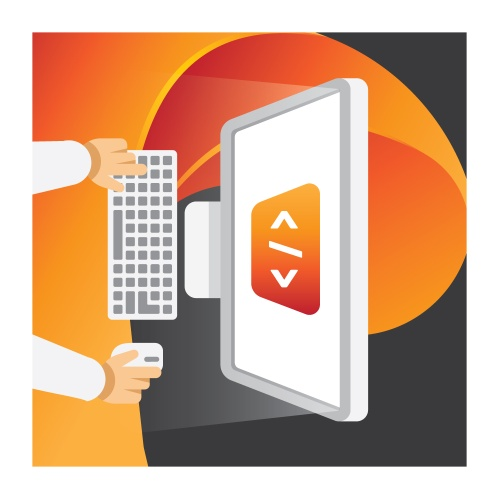
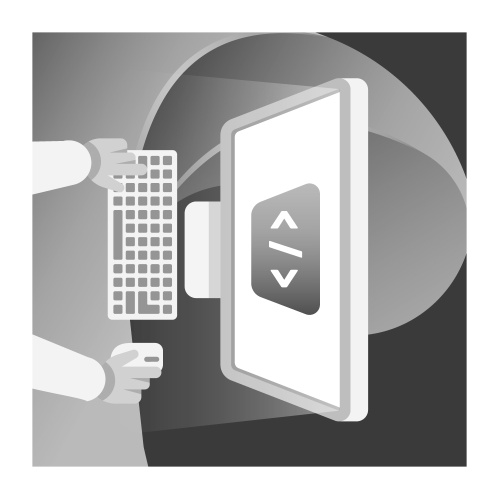
Finishing this tutorial

diff --git a/vid_corners.py b/vid_corners.py
@@ -1,0 +1,22 @@
+import cv2
+import numpy as np
+
+vid = cv2.VideoCapture(0)
+
+while True:
+    ret, frame = vid.read()
+    gray = cv2.cvtColor(frame, cv2.COLOR_BGR2GRAY)
+    corners = cv2.goodFeaturesToTrack(gray, 100, 0.01, 10)
+    corners = np.int0(corners)
+
+    for corner in corners:
+        x, y = corner.ravel()
+        cv2.circle(frame, (x, y), 5, (255, 0, 0), -1)
+
+    cv2.imshow("frame", frame)
+
+    if cv2.waitKey(1) == ord("q"):
+        break
+
+vid.release()
+cv2.destroyAllWindows()

diff --git a/tutorial1.py b/tutorial1.py
@@ -1,6 +1,6 @@
 import cv2
 
-img = cv2.imread("assets/logo.jpg", 1)
+img = cv2.imread("assets/logo.jpg", 0)
 img = cv2.resize(img, (0, 0), fx=0.5, fy=0.5)
 img = cv2.rotate(img, cv2.ROTATE_90_CLOCKWISE)
 

diff --git a/README.md b/README.md
@@ -1,11 +1,142 @@
 # OpenCV
 
-## Showing images
+## imread - imshow - imwrite
+
+Reading and writing image:
+
+```python
+img = cv2.imread(path, flags)
+cv2.imwrite(path, img, params)
+```
+
+Flag determine if image should be loaded as grey, with alpha channel, ect ([IMREAD IMWRITE flags](https://docs.opencv.org/3.4/d8/d6a/group__imgcodecs__flags.html)).  
+Function `cv2.imread` returns `np.ndarray` with shape $(height \times width \times channels)$ (if loaded grey, channel dimention is skiped). Because of this, you can change image like you change numpy array:
+
+```python
+img[100:300, 650:950] = img2[400:500, 700:1000]
+```
+
+### Showing images
 
 If you plot image with `plt.imshow(img)`, it could change color scale and the result will be different than real.  
+To control image windows closure use above:
 
 ```python
 cv2.waitKey(0)  # wait until any key has been pushed
 cv2.waitKey(5000)  # wait 5sec or until any key has been pushed
 cv2.destroyAllWindows()  # close all windows
 ```
+
+## Resizing
+
+You can change size of image providing shape pixels or xy fractions:
+
+```python
+img = cv2.resize(img, (400, 300))  # based on pixels
+img = cv2.resize(img, (0, 0), fx=0.5, fy=0.5)  # based on xy fractions
+```
+
+## Rotating and flipping
+
+```python
+img = cv2.rotate(img, cv2.ROTATE_90_CLOCKWISE)
+img = cv2.flip(img, flag)
+```
+
+`flip` flag values:
+
+- 0 - flip around x-axis
+- 1 - flip around y-axi
+- -1 - flip around both axis
+
+## Video capture
+
+To enable capture view from your computer camera use:
+
+```python
+cap = cv2.VideoCapture(0)
+```
+
+To read from it and show it as a video you read it as image and show it in loop:
+
+```python
+vid = cv2.VideoCapture(0)
+while(True):
+    ret, frame = vid.read()
+    cv2.imshow('frame', frame)
+    if cv2.waitKey(1) & 0xFF == ord('q'):
+        break
+
+vid.release()
+cv2.destroyAllWindows()
+```
+
+At the end of loop declare if statement escaping loop after clicking *q*. Argument of `cv2.waitKey` determines how many milliseconds to wait to read for pressing any key, if no key was pressed returns -1, otherwise returns code of key.  
+
+To get video property by [property id](https://docs.opencv.org/3.4/d4/d15/group__videoio__flags__base.html#gaeb8dd9c89c10a5c63c139bf7c4f5704d) use:
+
+```python
+prop = vid.get(prop_id)
+```
+
+## Painting and texting
+
+Common usecases showed in [tutorial4](tutorial4.py).  
+
+## Color space changing
+
+To convert image color space use [convertion code](https://docs.opencv.org/3.4/d8/d01/group__imgproc__color__conversions.html#ga4e0972be5de079fed4e3a10e24ef5ef0) as below:
+
+```python
+new_img = cv2.cvtColor(img, convertion_code)
+```
+
+## Thresholding and masking
+
+To get mask based on pixel value thresholding, define boundries and use `inRange` function:
+
+```python
+lower_blue = np.array([90, 50, 50])
+upper_blue = np.array([130, 255, 255])
+mask = cv2.inRange(hsv_img, lower_blue, upper_blue)
+```
+
+To apply mask use:
+
+```python
+new_img = cv2.bitwise_and(img, img, mask=mask)
+```
+
+Remember that result of thresholding will differ depending on color scale type (rba, hsv, ect.)
+
+## Finding important features
+
+OpenCV has also tools to finding corners. In computer vision corners are treated as more intresting than lines or spaces due to defining the shapes of objects and objects like face having them more than flat surfaces. Because of it we treat them as features. To find them we can use few technics, for example:
+
+- [Harris corner detection](https://docs.opencv.org/3.4/dc/d0d/tutorial_py_features_harris.html) - obraz traktujemy filtrami sobela: pionowym i poziomym, następnie dla małych jego wycinków zaznaczamy gradienty na osi xy, w ten sposób uzyskujemy wykres punktowy gradientów fragmentu; zakładamy, że jeżeli gradienty są bliskie zeru, wtedy mamy do czynienia z płaską przestrzenią, jeżeli gradienty układają się w linię, wtedy mamy do czynienia z krawędzią, a jeżeli są rozproszone, wtedy jest to narożnik; aby wyrazić to przy pomocy wzoru matematycznego, zakładając, że każdy punkt "waży" tyle samo, tworzymy elipsę opisującą rozkład punktów; następnie wyrażamy ją przy pomocy dwóch prostopadłych wektorów (wektorów własnych) promień $\lambda_{1}, \lambda_{2}$; na podstawie ich wielkości określamy:
+- $\lambda_{1} \lambda_{2} << threshold \rightarrow$ *flat region*,
+- $\lambda_{1} >> \lambda_{2} \vee \lambda_{1} << \lambda_{2} \rightarrow$ *line*,
+- $\lambda_{1} \approx \lambda_{2} \rightarrow$ *corner*.
+
+[Youtube explanation](https://www.youtube.com/watch?v=Z_HwkG90Yvw&ab_channel=FirstPrinciplesofComputerVision). Code:
+
+```python
+cv2.cornerHarris(img, blockSize, ksize, k)
+```
+
+- [Shi-Tomasi corner detection](https://docs.opencv.org/3.4/d4/d8c/tutorial_py_shi_tomasi.html) - metoda prawie identyczna jak poprzednia, z tym, że ostatecznie pod uwagę brany jest krótszy wektor własny; metoda ta działa lepiej dlatego jest przeważnie stosowana; kod:
+
+```python
+cv2.goodFeaturesToTrack(img, maxCorners, qualityLevel, minDistance)
+```
+
+## Template matching
+
+Template matching is the process of finding same looking part of image as the template (image we want to find). We doing it similar to subtracting template values from moving window and squaring it. Lower score imply good match. Instead of calculating entire expression, we only take part of it we need to be maximized and it's same as convolution but with no flipping. This part of expression is called *cross-correlation*. To make it more accurate (template and photo could have different lighting) we normalize it dividing by multiplication of root quared values of template and part of image. [Link to youtube explanation](https://www.youtube.com/watch?v=1_hwFc8PXVE&ab_channel=FirstPrinciplesofComputerVision). Code:
+
+```python
+result = cv2.matchTemplate(img2, template, method)
+min_val, max_val, min_loc, max_loc = cv2.minMaxLoc(result)
+```
+
+Match template method is formula which is minimized/maximized ([link](https://docs.opencv.org/4.x/df/dfb/group__imgproc__object.html#ga3a7850640f1fe1f58fe91a2d7583695d)).
